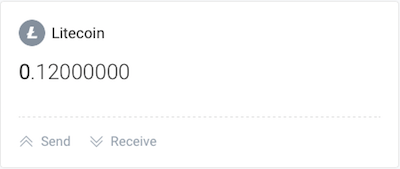
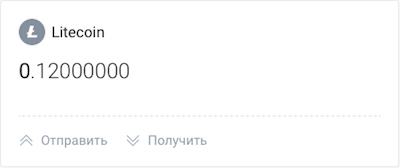
Updates

diff --git a/ru/waves-client/transfers-and-gateways/litecoin-transfers.md b/ru/waves-client/transfers-and-gateways/litecoin-transfers.md
@@ -1,59 +1,70 @@
-# How to receive and send Litecoin
+# **Как отправить и получить Litecoin**.
 
-Waves allow you to hold and transfer Litecoin on its blockchain. This works through a so-called Multigateway approach: Litecoin sent to a user's deposit address available in the Waves wallet and after the deposit the user receives a Litecoin token \(wLTC\) on the Waves blockchain. Every single Litecoin token is backed 1:1 with a real Litecoin.
+Waves client позволяет хранить и переводить Litecoin внутри сети Waves. Это возможно благодаря шлюзу: Litecoin поступают на Litecoin адрес выданный пользователю в Waves client, а взамен пользователь получает ассет Litecoin в сети Waves (wLTC). При выводе wLTC из сети Waves пользователь получает Litecoin из расчета 1:1.
 
-Read more about [What is a payment gateway?](/frequently-asked-questions-faq/transfers-and-gateways/payment-gateway.md)
+Всю исчерпывающую информацию о работе Litecoin шлюза вы найдёте в этой статье [Что такое платежный шлюз](/ru/frequently-asked-questions-faq/transfers-and-gateways/payment-gateway.md)
 
-## How to receive Litecoin
+## **Как получить Litecoin**.
 
-Open your Waves wallet  
-In the Litecoin section, click on the **Receive** button.
+Откройте свой Waves кошелек и в секции Litecoin нажмите **Получить**.
 
-![](/_assets/litecoin_transfers_01.png)
+![](/ru/_assets/litecoin_transfers_01.png)
 
-The following pop-up will appear.  
-Copy the shown Litecoin address or Scan QR Code and send a payment.  
-Read the conditions carefully in yellow boxes before proceeding.
+В появившемся окне вы увидите Litecoin адрес.
+Используйте его в качестве адреса получателя, чтобы ввести Litecoin в свой Waves аккаунт
+А также вы можете просканировать QR-код, в котором зашифрован этот Litecoin адрес.
+Перед этим внимательно прочитайте условия ввода Litecoin, которые выделены жёлтой пунктирной линией.
 
-![](/_assets/litecoin_transfers_02.png)
+![](/ru/_assets/litecoin_transfers_02.png)
 
-**Note**: Processing can take up to 120 minutes.
+**Внимание**: процесс ввода Litecoin в ваш Waves аккаунт может занять до 120 минут.
 
-## How to send Litecoin
+## **Как отправить Litecoin**.
 
-Open your Waves wallet  
-In the Litecoin section, click on the **Send** button.
+Откройте ваш Waves кошелек и в Litecoin секции нажмите **Отправить**.
 
-![](/_assets/litecoin_transfers_01.png)
+![](/ru/_assets/litecoin_transfers_01.png)
 
-The following pop-up will appear.  
-Paste the Litecoin address you want to send to as well as the amount of Litecoin.  
-Please note that the gateway charges 0.01 LTC for the gateway fee as well as 0.001 Waves for the network fee.
+В появившемся окне введите:
 
-After you have filled the form, click on the **Continue** button.
+- в строку **Получатель** Litecoin адрес получателя;
+- в строку **Количество** сумму Litecoin, которую вы хотите отправить на Litecoin адрес Получателя.
 
-![](/_assets/litecoin_transfers_04.png)
+**Будьте внимательны**: комиссия Litecoin шлюза за обработку транзакции составит 0,01 LTC, а комиссия сети Waves за проведение транзакции составлит 0,001 Waves.
 
-The following pop-up will appear.  
-To complete the operation, click on the **Confirm** or **Back** to repeat the process.
+Внимательно прочитайте условия вывода Litecoin, которые выделены жёлтой пунктирной линией.
 
-![](/_assets/litecoin_transfers_05.png)
+После заполнения всех строк и прочтения условий нажмите **Продолжить**.
 
-**Note**: Processing can take up to 120 minutes, the minimum amount is 0.1 LTC.
+![](/ru/_assets/litecoin_transfers_04.png)
 
-## How to create internal transaction through Waves network
+Ещё раз проверьте данные транзакции в появившемся окне.
 
-You can send Litecoin directly to another Waves account, just use the recipient Waves address, click on Send and fill-in the sending form.
+Если все данные верны нажмите **Подтвердить**. Для корректировки данных нажмите **Назад**.
 
-**Note.** The network fee is only 0.001 Waves \(no gateway fee\)
+![](/ru/_assets/litecoin_transfers_05.png)
 
-![](/_assets/litecoin_transfers_01.png)
+**Внимание**: процесс ввода Litecoin в ваш Waves аккаунт может занять до 120 минут.
 
-After you have completed the form, click on the **Continue** button.
+## **Как перевести Litecoin в другой Waves аккаунт**.
 
-![](/_assets/litecoin_transfers_07.png)
+Откройте ваш Waves кошелек и в Litecoin секции нажмите **Отправить**.
 
-The following pop-up will appear.  
-To complete the operation, click on the **Confirm** or **Back** to repeat the process.
+![](/ru/_assets/litecoin_transfers_01.png)
 
-![](/_assets/litecoin_transfers_08.png)
+В появившемся окне введите:
+
+- в строку **Получатель** Waves адрес получателя;
+- в строку **Количество** сумму Litecoin, которую вы хотите отправить на Waves адрес Получателя.
+
+**Будьте внимательны**: комиссия сети Waves за проведение транзакции составит 0,001 Waves.
+
+После заполнения всех строк нажмите **Продолжить**.
+
+![](/ru/_assets/litecoin_transfers_07.png)
+
+Ещё раз проверьте данные транзакции в появившемся окне.
+
+Если все данные верны нажмите **Подтвердить**. Для корректировки данных нажмите **Назад**.
+
+![](/ru/_assets/litecoin_transfers_08.png)

diff --git a/ru/waves-client/transfers-and-gateways/zcash-transfers.md b/ru/waves-client/transfers-and-gateways/zcash-transfers.md
@@ -1,59 +1,70 @@
-# How to receive and send Zcash
+# **Как отправить и получить Zcash**.
 
-Waves allow you to hold and transfer Zcash on its blockchain. This works through a so-called Multigateway approach: Zcash sent to a user's deposit address available in the Waves wallet and after the deposit the user receives a Zcash token \(wZEC\) on the Waves blockchain. Every single Zcash token is backed 1:1 with a real Zcash.
+Waves client позволяет хранить и переводить Zcash внутри сети Waves. Это возможно благодаря шлюзу: Zcash поступают на Zcash адрес выданный пользователю в Waves client, а взамен пользователь получает ассет Zcash в сети Waves (wZEC). При выводе wZEC из сети Waves пользователь получает Zcash из расчета 1:1.
 
-Read more about [What is a payment gateway?](/frequently-asked-questions-faq/transfers-and-gateways/payment-gateway.md)
+Всю исчерпывающую информацию о работе Zcash шлюза вы найдёте в этой статье [Что такое платежный шлюз](/ru/frequently-asked-questions-faq/transfers-and-gateways/payment-gateway.md)
 
-## **How to receive Zcash**
+## **Как получить Zcash**.
 
-Open your Waves wallet  
-In the Zcash section, click on the **Receive** button.
+Откройте свой Waves кошелек и в секции Zcash нажмите **Получить**.
 
-![](/_assets/zcash_transfers_01.png)
+![](/ru/_assets/zcash_transfers_01.png)
 
-The following pop-up will appear.  
-Copy the shown Zcash address or Scan QR Code and send a payment.  
-Read the conditions carefully in yellow boxes before proceeding.
+В появившемся окне вы увидите Zcash адрес.
+Используйте его в качестве адреса получателя, чтобы ввести Zcash в свой Waves аккаунт
+А также вы можете просканировать QR-код, в котором зашифрован этот Zcash адрес.
+Перед этим внимательно прочитайте условия ввода Zcash, которые выделены жёлтой пунктирной линией.
 
-![](/_assets/zcash_transfers_02.png)
+![](/ru/_assets/zcash_transfers_02.png)
 
-**Note**: Processing can take up to 120 minutes.
+**Внимание**: процесс ввода Zcash в ваш Waves аккаунт может занять до 120 минут.
 
-## **How to send Zcash**
+## **Как отправить Zcash**.
 
-Open your Waves wallet  
-In the Zcash section, click on the **Send** button.
+Откройте ваш Waves кошелек и в Zcash секции нажмите **Отправить**.
 
-![](/_assets/zcash_transfers_01.png)
+![](*ru/_assets/zcash_transfers_01.png)
 
-The following pop-up will appear.  
-Paste the Zcash address you want to send to as well as the amount of Zcash.  
-Please note that the gateway charges 0.01 ZEC for the gateway fee as well as 0.001 Waves for the network fee.
+В появившемся окне введите:
 
-After you have filled the form, click on the **Continue** button.
+- в строку **Получатель** Zcash адрес получателя;
+- в строку **Количество** сумму Zcash, которую вы хотите отправить на Zcash адрес Получателя.
 
-![](/_assets/zcash_transfers_04.png)
+**Будьте внимательны**: комиссия Zcash шлюза за обработку транзакции составит 0,01 ZEC, а комиссия сети Waves за проведение транзакции составлит 0,001 Waves.
 
-The following pop-up will appear.  
-To complete the operation, click on the **Confirm** or **Back** to repeat the process.
+Внимательно прочитайте условия вывода Zcash, которые выделены жёлтой пунктирной линией.
 
-![](/_assets/zcash_transfers_05.png)
+После заполнения всех строк и прочтения условий нажмите **Продолжить**.
 
-**Note**: Processing can take up to 120 minutes, the minimum amount is 0.1 ZEC.
+![](/ru/_assets/zcash_transfers_04.png)
 
-## **How to create internal transaction through Waves network**
+Ещё раз проверьте данные транзакции в появившемся окне.
 
-You can send Zcash directly to another Waves account, just use the recipient Waves address, click on Send and fill-in the sending form.
+Если все данные верны нажмите **Подтвердить**. Для корректировки данных нажмите **Назад**.
 
-**Note.** The network fee is only 0.001 Waves \(no gateway fee\)
+![](/ru/_assets/zcash_transfers_05.png)
 
-![](/_assets/zcash_transfers_01.png)
+**Внимание**: процесс ввода Zcash в ваш Waves аккаунт может занять до 120 минут.
 
-After you have completed the form, click on the **Continue** button.
+## **Как перевести Zcash в другой Waves аккаунт**.
 
-![](/_assets/zcash_transfers_07.png)
+Откройте ваш Waves кошелек и в Zcash секции нажмите **Отправить**.
 
-The following pop-up will appear.  
-To complete the operation, click on the **Confirm** or **Back** to repeat the process.
+![](/ru/_assets/zcash_transfers_01.png)
 
-![](/_assets/zcash_transfers_08.png)
+В появившемся окне введите:
+
+- в строку **Получатель** Waves адрес получателя;
+- в строку **Количество** сумму Zcash, которую вы хотите отправить на Waves адрес Получателя.
+
+**Будьте внимательны**: комиссия сети Waves за проведение транзакции составит 0,001 Waves.
+
+После заполнения всех строк нажмите **Продолжить**.
+
+![](/ru/_assets/zcash_transfers_07.png)
+
+Ещё раз проверьте данные транзакции в появившемся окне.
+
+Если все данные верны нажмите **Подтвердить**. Для корректировки данных нажмите **Назад**.
+
+![](/ru/_assets/zcash_transfers_08.png)

diff --git a/ru/waves-client/transfers-and-gateways/ethereum-transfers.md b/ru/waves-client/transfers-and-gateways/ethereum-transfers.md
@@ -2,7 +2,7 @@
 
 Waves client позволяет хранить и переводить Ethereum внутри сети Waves. Это возможно благодаря шлюзу: Ethereum поступают на Ethereum адрес выданный пользователю в Waves client, а взамен пользователь получает ассет Ethereum в сети Waves (wETH). При выводе wETH из сети Waves пользователь получает Ethereum из расчета 1:1.
 
-Всю исчерпывающую информацию о работе Bitcoin шлюза вы найдёте в этой статье [Что такое платежный шлюз](/ru/frequently-asked-questions-faq/transfers-and-gateways/payment-gateway.md)
+Всю исчерпывающую информацию о работе Ethereum шлюза вы найдёте в этой статье [Что такое платежный шлюз](/ru/frequently-asked-questions-faq/transfers-and-gateways/payment-gateway.md)
 
 ## **Как получить Ethereum**.
 
